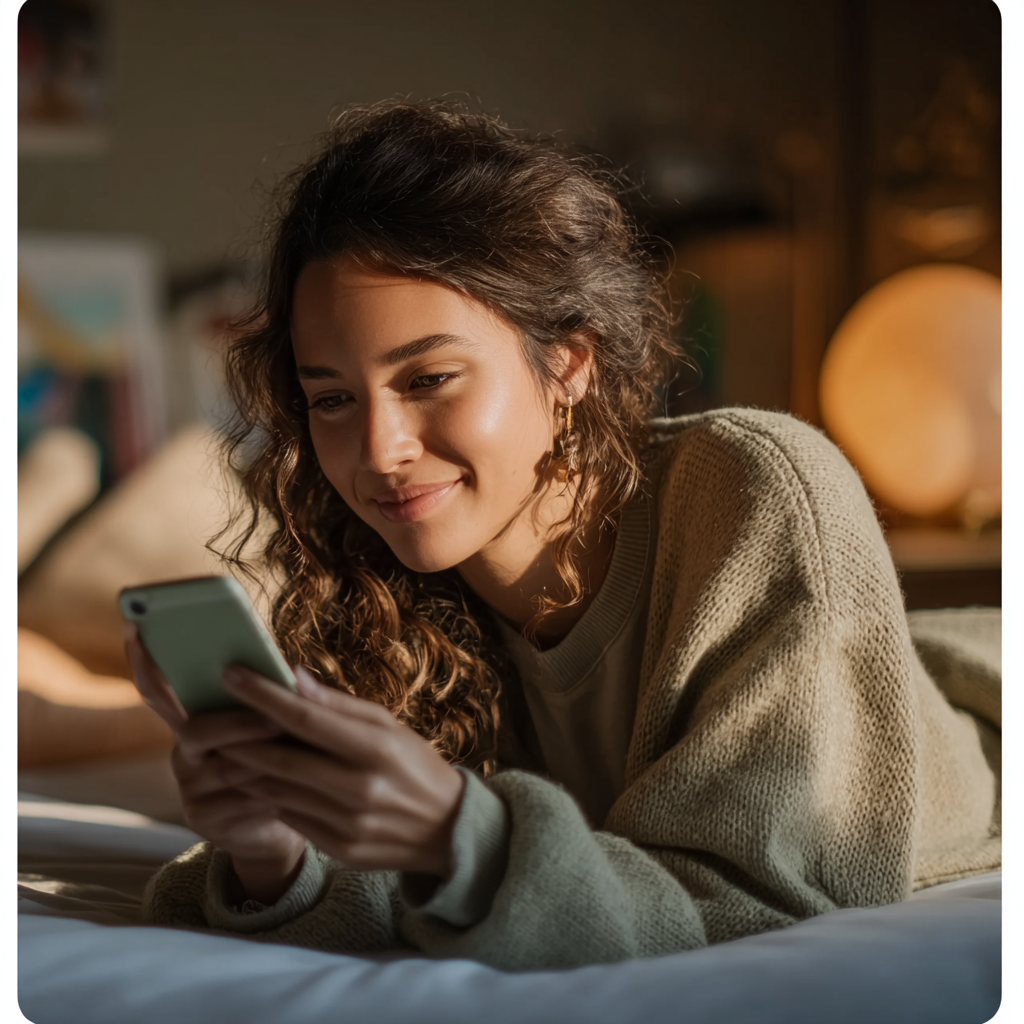
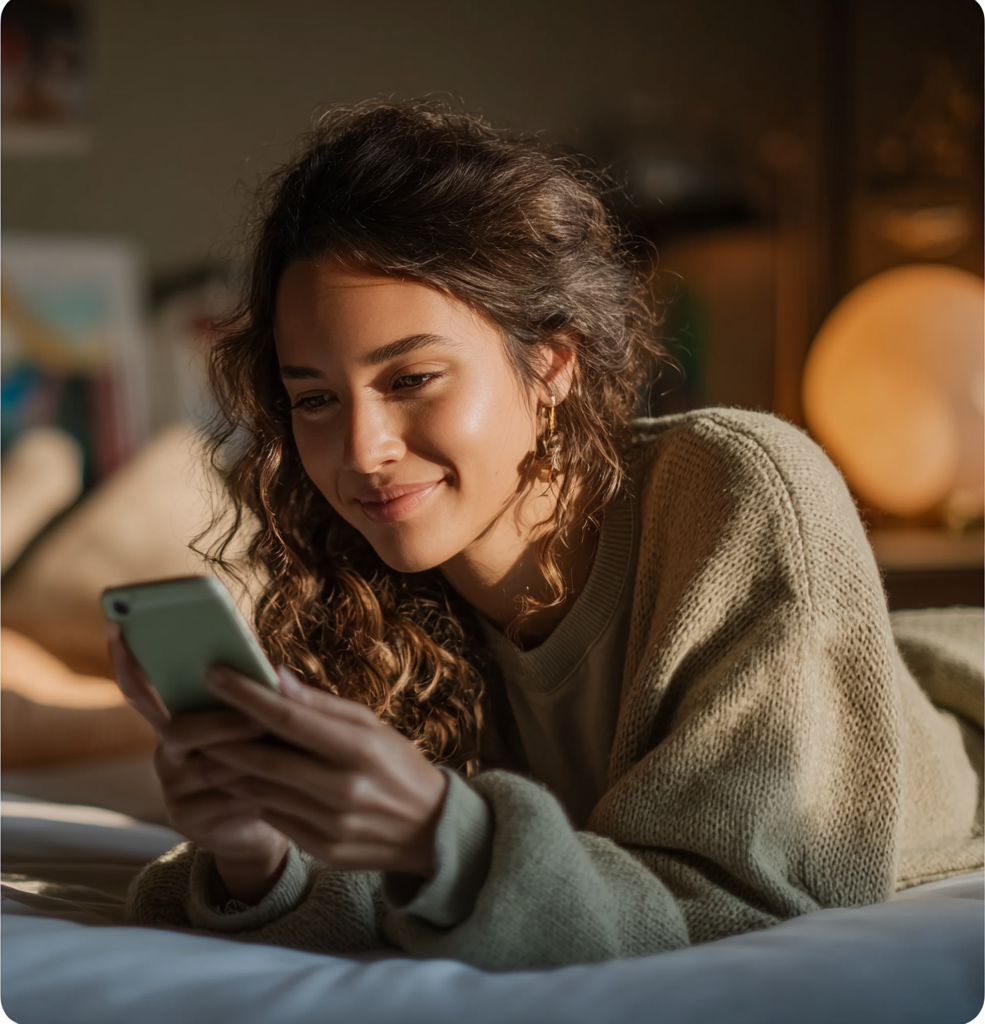
Replace quote section video with cropped hero-cozy.png photo

diff --git a/index.html b/index.html
@@ -1251,9 +1251,7 @@
     <!-- SECTION 6B: LIFESTYLE QUOTE -->
     <section class="phone-lifestyle">
         <div class="phone-lifestyle-media reveal">
-            <video autoplay muted loop playsinline poster="hero-cozy.png">
-                <source src="video-outdoor.mp4" type="video/mp4">
-            </video>
+            <img src="hero-cozy.png" alt="Person relaxing on couch" loading="lazy">
         </div>
         <div class="phone-lifestyle-text reveal reveal-d2">
             <p>"It felt like someone finally understood what was going on in my head."</p>
